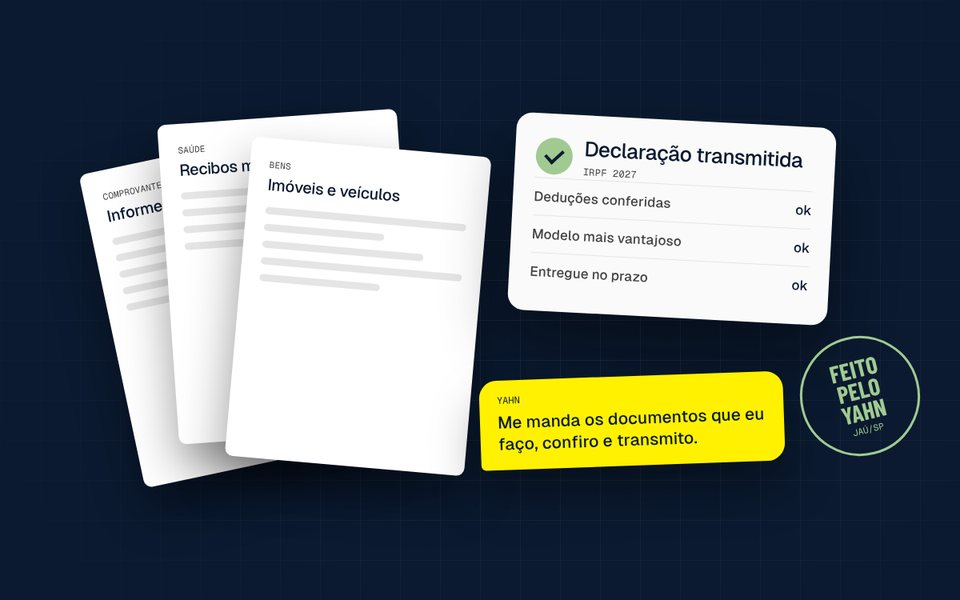
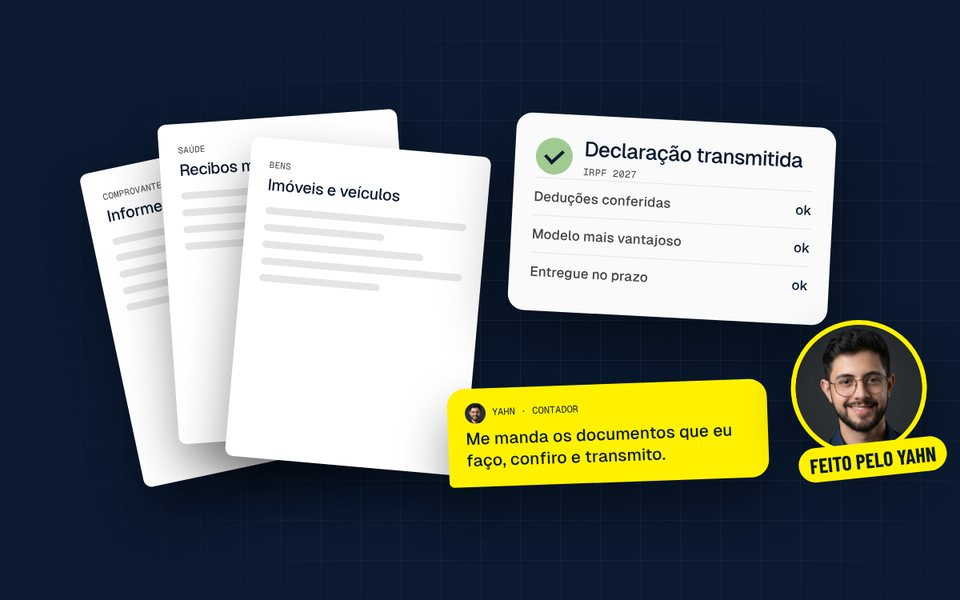
Adiciona a lista de espera do Guia IRPF 2027 e a foto do Yahn
O botão Quero ser avisado abre um formulário que salva nome, WhatsApp e e-mail no Supabase.
A foto entra no Sobre da plataforma, na página do Kit e na capa da declaração.

Claude-Session: https://claude.ai/code/session_01Fa3tAtS5QtGvEJKKqd2z4p

Changed region(s): [[0.4375, 0.51, 1.0, 0.84]]

diff --git a/index.html b/index.html
@@ -304,6 +304,9 @@ section{scroll-margin-top:84px}
 .arc{background:var(--canvas);color:var(--bone);border-radius:var(--r-arc) var(--r-arc) 0 0;padding:72px 0 40px}
 .about{display:grid;grid-template-columns:auto 1fr;gap:48px;align-items:center}
 .avatar{width:180px;height:180px;border-radius:var(--r-light);background:var(--act);color:var(--canvas);display:grid;place-items:center;font-family:var(--display);font-weight:700;font-size:80px}
+.avatar{position:relative;background:transparent!important;font-size:0!important}
+.avatar::before{content:"";position:absolute;inset:0;background:var(--act);border-radius:inherit;transform:rotate(6deg)}
+.avatar img{position:relative;display:block;width:100%;height:100%;object-fit:cover;border-radius:inherit;transform:rotate(-3deg);box-shadow:0 18px 40px rgba(0,0,0,.35)}
 .about h2{font-size:clamp(48px,6vw,84px);color:var(--chalk)}
 .about p{color:var(--stone);max-width:42em;margin:16px 0 10px}
 .about blockquote{font-family:var(--serif);font-style:italic;font-size:32px;line-height:1.25;letter-spacing:-.02em;color:var(--chalk);margin:20px 0 28px}
@@ -635,7 +638,7 @@ footer{background:var(--canvas);border-top:1px solid var(--stroke);padding:56px 
   <section id="sobre" class="light" style="padding-top:20px">
     <div class="arc">
       <div class="wrap about">
-        <div class="avatar" aria-hidden="true">YT</div>
+        <div class="avatar"><img src="img/yahn.jpg" alt="Yahn Torricelli Godoy" width="400" height="400" loading="lazy"></div>
         <div>
           <span class="mono" style="color:var(--muted)">Quem faz</span>
           <h2 class="disp">Yahn Torricelli Godoy</h2>
@@ -691,7 +694,7 @@ const PRODUCTS = [
   {tags:["guias","mei"], img:"img/mei-no-controle-gratis.jpg", fmt:"Ebook PDF", st:["free","Grátis"], name:"MEI no Controle · edição 2027", desc:"O básico do MEI em 8 páginas, já com o limite novo de 2027.", items:["Limite de R$ 110 mil e 2 funcionários","Calendário 2027 com as datas ajustadas","Checklist de 15 minutos por mês"], price:"Grátis", note:"acesso imediato", link:LINKS.guiaGratis, cta:"Quero o guia", cover:"mei", main:true},
   {tags:["guias","mei"], img:"img/kit-mei-no-controle.jpg", fmt:"Kit digital", st:["paid","Kiwify"], name:"Kit MEI no Controle", desc:"Guia completo, planilha de faturamento e checklist fiscal para manter o MEI em dia.", items:["Guia completo do MEI","Planilha: quanto falta para o limite","Checklist mensal e calendário fiscal","Bônus de acesso ao Portal MEI"], price:"R$ 47", note:"pagamento único", link:LINKS.kitMEI, cta:"Ver o kit", cover:"kit"},
   {tags:["guias","ir"], img:"img/checklist-irpf-2027.jpg", fmt:"Checklist PDF", st:["free","Grátis"], name:"Checklist IRPF 2027", desc:"Os documentos para separar antes de declarar, já com a isenção de até R$ 5 mil.", items:["Lista para marcar, em 2 páginas","Parte especial para quem é MEI","Simulador: quanto você economiza em 2027"], price:"Grátis", note:"acesso imediato", link:LINKS.irpf, cta:"Simular e baixar", cover:"ir", main:true},
-  {tags:["guias","ir"], img:"img/guia-irpf-2027.jpg", fmt:"Guia PDF", st:["soon","Fev/2027"], name:"Guia IRPF 2027", desc:"O passo a passo da declaração com os números oficiais da Receita.", items:["Deduções e como evitar a malha fina","Como o MEI declara o lucro","Atualizado com a instrução normativa de 2027"], price:"Em breve", note:"lista de espera", link:LINKS.instagram, cta:"Quero ser avisado", cover:"irg"},
+  {tags:["guias","ir"], img:"img/guia-irpf-2027.jpg", fmt:"Guia PDF", st:["soon","Fev/2027"], name:"Guia IRPF 2027", desc:"O passo a passo da declaração com os números oficiais da Receita.", items:["Deduções e como evitar a malha fina","Como o MEI declara o lucro","Atualizado com a instrução normativa de 2027"], price:"Em breve", note:"lista de espera", link:"#avisar", lead:"guia-irpf-2027", cta:"Quero ser avisado", cover:"irg"},
   {tags:["ir"], img:"img/declaracao-feita-pelo-yahn.jpg", fmt:"Serviço", st:["paid","Vagas limitadas"], name:"Declaração feita pelo Yahn", desc:"Você manda os documentos e eu faço, confiro e transmito a sua declaração.", items:["Ideal para MEI, aluguel e investimentos","Conferência de deduções","Entrega dentro do prazo"], price:"Sob consulta", note:"reserve sua vaga", link:LINKS.whatsIR, cta:"Reservar no WhatsApp", cover:"dec"},
 ];
 const COVERS = {
@@ -712,7 +715,7 @@ function render(f){
     const cta = p.link || p.st[0]!=="paid" ? p.cta : "Pedir o link";
     return `<article class="prod"><div class="cover cv-${p.cover}"><span class="fmt">${p.fmt}</span><span class="st ${p.st[0]}">${p.st[1]}</span>${p.img?`<img src="${p.img}" alt="${p.name}" width="960" height="600" loading="lazy">`:COVERS[p.cover]}</div>
       <div class="prod-b"><h4>${p.name}</h4><p>${p.desc}</p><ul>${p.items.map(i=>`<li>${i}</li>`).join("")}</ul>
-      <div class="prod-f"><div class="pr">${p.price}<small>${p.note}</small></div><a class="btn ${p.main?"btn-dark":"btn-line"}" href="${href}">${cta}</a></div></div></article>`;
+      <div class="prod-f"><div class="pr">${p.price}<small>${p.note}</small></div><a class="btn ${p.main?"btn-dark":"btn-line"}" href="${href}"${p.lead?` data-lead="${p.lead}"`:""}>${cta}</a></div></div></article>`;
   }).join("");
 }
 const fEl = document.getElementById("filters");
@@ -764,5 +767,90 @@ addEventListener("scroll", markTab, {passive:true}); markTab();
   if(!reduce) setInterval(()=>{ q.style.opacity = 0; setTimeout(()=>{ qi=(qi+1)%quotes.length; q.textContent = quotes[qi]; q.style.opacity = 1; }, 450); }, 4500);
 })();
 </script>
+<!-- lista de espera -->
+<style>
+.ld{border:0;padding:0;background:transparent;max-width:none;max-height:none;width:100%;height:100%;inset:0;margin:0}
+.ld::backdrop{background:rgba(5,12,24,.72);backdrop-filter:blur(6px)}
+.ld[open]{display:grid;place-items:center}
+.ld-c{position:relative;width:min(460px,calc(100% - 28px));background:#FAFAFA;color:#0B1A30;border-radius:24px;padding:30px 28px 26px;box-shadow:0 40px 90px rgba(0,0,0,.45);font-family:"Geist",system-ui,sans-serif}
+.ld-x{position:absolute;right:14px;top:14px;width:36px;height:36px;border-radius:50%;border:0;background:#EEEEEE;color:#0B1A30;font-size:20px;line-height:1;cursor:pointer}
+.ld-k{font-family:"Geist Mono",ui-monospace,monospace;font-size:12px;text-transform:uppercase;color:#444;letter-spacing:.02em}
+.ld-c h3{font-family:"Barlow Condensed",sans-serif;font-weight:700;text-transform:uppercase;font-size:44px;line-height:.92;letter-spacing:-.02em;margin:10px 40px 10px 0;color:#0B1A30}
+.ld-c>p{font-size:16px;color:#444;line-height:1.45;margin:0 0 18px}
+.ld-f{display:grid;gap:12px}
+.ld-f label{display:grid;gap:6px;font-size:14px;font-weight:500;color:#0B1A30}
+.ld-f label span small{font-weight:400;color:#6b7280}
+.ld-f input[type=text],.ld-f input[type=tel],.ld-f input[type=email]{font:400 17px "Geist",system-ui,sans-serif;color:#0B1A30;background:#fff;border:1px solid #cfd5de;border-radius:10px;padding:13px 14px;width:100%;box-sizing:border-box}
+.ld-f input:focus{outline:2px solid #0B1A30;outline-offset:1px;border-color:#0B1A30}
+.ld-f label.ld-ok{display:flex;gap:10px;align-items:flex-start;font-weight:400;font-size:13px;color:#444;line-height:1.4;cursor:pointer}
+.ld-ok input{margin-top:2px;width:18px;height:18px;accent-color:#0B1A30;flex:none}
+.ld-go{margin-top:4px;width:100%;font:500 17px "Geist",system-ui,sans-serif;background:#FFF100;color:#0B1A30;border:0;border-radius:3px;padding:16px;cursor:pointer}
+.ld-go:hover{background:#fff766}.ld-go:disabled{opacity:.6;cursor:wait}
+.ld-err{font-size:14px;color:#b42318;min-height:0;margin:0}
+.ld-done{display:none;text-align:left}
+.ld-done .ok{width:52px;height:52px;border-radius:50%;background:#A0CA92;display:grid;place-items:center;margin-bottom:14px}
+.ld-done .ok::after{content:"";width:20px;height:11px;border-left:4px solid #0B1A30;border-bottom:4px solid #0B1A30;transform:translateY(-3px) rotate(-45deg)}
+.ld.sent .ld-form{display:none}.ld.sent .ld-done{display:block}
+</style>
+<dialog class="ld" id="ld" aria-labelledby="ld-t">
+  <div class="ld-c">
+    <button class="ld-x" type="button" aria-label="Fechar">×</button>
+    <div class="ld-form">
+      <span class="ld-k" id="ld-k">Lista de espera</span>
+      <h3 id="ld-t">Guia IRPF 2027</h3>
+      <p id="ld-p">O guia sai quando a Receita publicar as regras de 2027, entre fevereiro e março. Deixe seu contato e eu te aviso no dia do lançamento.</p>
+      <form class="ld-f" novalidate>
+        <label><span>Nome</span><input type="text" name="nome" autocomplete="name" required maxlength="120"></label>
+        <label><span>WhatsApp</span><input type="tel" name="whatsapp" autocomplete="tel" inputmode="tel" placeholder="(14) 99999-9999" required maxlength="20"></label>
+        <label><span>E-mail <small>(opcional)</small></span><input type="email" name="email" autocomplete="email" maxlength="160"></label>
+        <label class="ld-ok"><input type="checkbox" name="ok" required>Aceito receber o aviso do lançamento e conteúdos do Yahn Contador. Posso pedir para sair quando quiser.</label>
+        <p class="ld-err" role="alert"></p>
+        <button class="ld-go" type="submit">Quero ser avisado</button>
+      </form>
+    </div>
+    <div class="ld-done" aria-live="polite">
+      <div class="ok"></div>
+      <span class="ld-k">Você está na lista</span>
+      <h3 id="ld-dn">Pronto!</h3>
+      <p style="font-size:16px;color:#444;line-height:1.45;margin:0 0 18px">Assim que o Guia IRPF 2027 sair, eu te mando uma mensagem no WhatsApp. Enquanto isso, separe seus documentos com o checklist grátis.</p>
+      <a class="ld-go" style="display:block;text-align:center;text-decoration:none;box-sizing:border-box" href="https://ytorricelli-lab.github.io/hub-yahn-contador/irpf/">Baixar o checklist grátis</a>
+    </div>
+  </div>
+</dialog>
+<script>
+(() => {
+  const SB = "https://vpmxaxnloaoqaxdmmoid.supabase.co", KEY = "sb_publishable_RhlWZVrxRY2WzayVLIiQFg_O92cxIBR", ORIGEM = "plataforma";
+  const d = document.getElementById("ld"); if (!d) return;
+  const f = d.querySelector("form"), err = d.querySelector(".ld-err"), go = d.querySelector(".ld-go[type=submit]");
+  let interesse = "guia-irpf-2027";
+  const open = (k) => { interesse = k || interesse; d.classList.remove("sent"); err.textContent = ""; d.showModal(); setTimeout(() => f.nome.focus(), 50); };
+  document.addEventListener("click", e => { const b = e.target.closest("[data-lead]"); if (!b) return; e.preventDefault(); open(b.dataset.lead); });
+  d.querySelector(".ld-x").onclick = () => d.close();
+  d.addEventListener("click", e => { if (e.target === d) d.close(); });
+  f.whatsapp.addEventListener("input", () => {
+    const n = f.whatsapp.value.replace(/\D/g, "").slice(0, 11);
+    f.whatsapp.value = n.length > 6 ? `(${n.slice(0,2)}) ${n.slice(2, n.length-4)}-${n.slice(-4)}` : n.length > 2 ? `(${n.slice(0,2)}) ${n.slice(2)}` : n;
+  });
+  f.addEventListener("submit", async e => {
+    e.preventDefault(); err.textContent = "";
+    const nome = f.nome.value.trim(), tel = f.whatsapp.value.replace(/\D/g, ""), email = f.email.value.trim();
+    if (nome.length < 2) { err.textContent = "Escreva seu nome."; f.nome.focus(); return; }
+    if (tel.length < 10) { err.textContent = "Confira o WhatsApp com DDD, por exemplo (14) 99999-9999."; f.whatsapp.focus(); return; }
+    if (email && !/^[^\s@]+@[^\s@]+\.[^\s@]+$/.test(email)) { err.textContent = "Confira o e-mail ou deixe em branco."; f.email.focus(); return; }
+    if (!f.ok.checked) { err.textContent = "Marque a caixa para eu poder te avisar."; return; }
+    go.disabled = true; go.textContent = "Salvando...";
+    try {
+      const r = await fetch(`${SB}/rest/v1/leads`, { method: "POST", headers: { apikey: KEY, "Content-Type": "application/json", Prefer: "return=minimal" },
+        body: JSON.stringify({ nome, whatsapp: tel, email: email || null, interesse, origem: ORIGEM }) });
+      if (!r.ok) throw new Error(r.status);
+      d.querySelector("#ld-dn").textContent = `Pronto, ${nome.split(" ")[0]}!`;
+      d.classList.add("sent"); f.reset();
+    } catch (_) {
+      err.innerHTML = 'Não consegui salvar agora. Tente de novo em instantes ou <a href="https://instagram.com/yahn.contador" style="color:inherit">me chame no Instagram</a>.';
+    } finally { go.disabled = false; go.textContent = "Quero ser avisado"; }
+  });
+})();
+</script>
+
 </body>
 </html>

diff --git a/irpf/index.html b/irpf/index.html
@@ -272,7 +272,7 @@ footer a{color:var(--stone)}
       <div class="head"><h2 class="disp"><span class="mono">Escolha como quer declarar</span>Do jeito que for melhor para você</h2><p>Comece pelo checklist. Depois, faça você mesmo com o guia ou deixe que eu faço.</p></div>
       <div class="three">
         <div class="prod hot"><span class="mono">Grátis · agora</span><h3>Checklist IRPF 2027</h3><p>Todos os documentos para separar antes da declaração, em duas páginas para marcar. Inclui a parte de quem é MEI.</p><a class="btn btn-act" href="Checklist-IRPF-2027.pdf">Baixar grátis</a></div>
-        <div class="prod"><span class="mono">Em breve · fev/2027</span><h3>Guia IRPF 2027</h3><p>Passo a passo da declaração com os números oficiais da Receita, deduções, como evitar a malha fina e como o MEI declara o lucro na pessoa física.</p><a class="btn btn-line" href="https://instagram.com/yahn.contador">Quero ser avisado</a></div>
+        <div class="prod"><span class="mono">Em breve · fev/2027</span><h3>Guia IRPF 2027</h3><p>Passo a passo da declaração com os números oficiais da Receita, deduções, como evitar a malha fina e como o MEI declara o lucro na pessoa física.</p><a class="btn btn-line" href="#avisar" data-lead="guia-irpf-2027">Quero ser avisado</a></div>
         <div class="prod"><span class="mono">Serviço · vagas limitadas</span><h3>Declaração feita pelo Yahn</h3><p>Você manda os documentos do checklist e eu faço, confiro e transmito a sua declaração. Ideal para quem tem MEI, aluguel ou investimentos.</p><a class="btn btn-line" href="https://wa.me/5514991696399?text=Ol%C3%A1%2C%20Yahn%21%20Vim%20pela%20p%C3%A1gina%20do%20IR%20e%20quero%20reservar%20minha%20vaga%20para%20a%20declara%C3%A7%C3%A3o%20do%20IR%202027.%0A%0ANome%3A%0ACidade%3A%0ATenho%20renda%20de%3A%20%28sal%C3%A1rio%2C%20MEI%2C%20aluguel%2C%20investimentos...%29">Reservar pelo WhatsApp</a></div>
       </div>
     </div>
@@ -308,5 +308,90 @@ function calc(){
 sal.addEventListener("input", () => { const d = sal.value.replace(/\D/g,""); sal.value = d ? Number(d).toLocaleString("pt-BR") : ""; calc(); });
 calc();
 </script>
+<!-- lista de espera -->
+<style>
+.ld{border:0;padding:0;background:transparent;max-width:none;max-height:none;width:100%;height:100%;inset:0;margin:0}
+.ld::backdrop{background:rgba(5,12,24,.72);backdrop-filter:blur(6px)}
+.ld[open]{display:grid;place-items:center}
+.ld-c{position:relative;width:min(460px,calc(100% - 28px));background:#FAFAFA;color:#0B1A30;border-radius:24px;padding:30px 28px 26px;box-shadow:0 40px 90px rgba(0,0,0,.45);font-family:"Geist",system-ui,sans-serif}
+.ld-x{position:absolute;right:14px;top:14px;width:36px;height:36px;border-radius:50%;border:0;background:#EEEEEE;color:#0B1A30;font-size:20px;line-height:1;cursor:pointer}
+.ld-k{font-family:"Geist Mono",ui-monospace,monospace;font-size:12px;text-transform:uppercase;color:#444;letter-spacing:.02em}
+.ld-c h3{font-family:"Barlow Condensed",sans-serif;font-weight:700;text-transform:uppercase;font-size:44px;line-height:.92;letter-spacing:-.02em;margin:10px 40px 10px 0;color:#0B1A30}
+.ld-c>p{font-size:16px;color:#444;line-height:1.45;margin:0 0 18px}
+.ld-f{display:grid;gap:12px}
+.ld-f label{display:grid;gap:6px;font-size:14px;font-weight:500;color:#0B1A30}
+.ld-f label span small{font-weight:400;color:#6b7280}
+.ld-f input[type=text],.ld-f input[type=tel],.ld-f input[type=email]{font:400 17px "Geist",system-ui,sans-serif;color:#0B1A30;background:#fff;border:1px solid #cfd5de;border-radius:10px;padding:13px 14px;width:100%;box-sizing:border-box}
+.ld-f input:focus{outline:2px solid #0B1A30;outline-offset:1px;border-color:#0B1A30}
+.ld-f label.ld-ok{display:flex;gap:10px;align-items:flex-start;font-weight:400;font-size:13px;color:#444;line-height:1.4;cursor:pointer}
+.ld-ok input{margin-top:2px;width:18px;height:18px;accent-color:#0B1A30;flex:none}
+.ld-go{margin-top:4px;width:100%;font:500 17px "Geist",system-ui,sans-serif;background:#FFF100;color:#0B1A30;border:0;border-radius:3px;padding:16px;cursor:pointer}
+.ld-go:hover{background:#fff766}.ld-go:disabled{opacity:.6;cursor:wait}
+.ld-err{font-size:14px;color:#b42318;min-height:0;margin:0}
+.ld-done{display:none;text-align:left}
+.ld-done .ok{width:52px;height:52px;border-radius:50%;background:#A0CA92;display:grid;place-items:center;margin-bottom:14px}
+.ld-done .ok::after{content:"";width:20px;height:11px;border-left:4px solid #0B1A30;border-bottom:4px solid #0B1A30;transform:translateY(-3px) rotate(-45deg)}
+.ld.sent .ld-form{display:none}.ld.sent .ld-done{display:block}
+</style>
+<dialog class="ld" id="ld" aria-labelledby="ld-t">
+  <div class="ld-c">
+    <button class="ld-x" type="button" aria-label="Fechar">×</button>
+    <div class="ld-form">
+      <span class="ld-k" id="ld-k">Lista de espera</span>
+      <h3 id="ld-t">Guia IRPF 2027</h3>
+      <p id="ld-p">O guia sai quando a Receita publicar as regras de 2027, entre fevereiro e março. Deixe seu contato e eu te aviso no dia do lançamento.</p>
+      <form class="ld-f" novalidate>
+        <label><span>Nome</span><input type="text" name="nome" autocomplete="name" required maxlength="120"></label>
+        <label><span>WhatsApp</span><input type="tel" name="whatsapp" autocomplete="tel" inputmode="tel" placeholder="(14) 99999-9999" required maxlength="20"></label>
+        <label><span>E-mail <small>(opcional)</small></span><input type="email" name="email" autocomplete="email" maxlength="160"></label>
+        <label class="ld-ok"><input type="checkbox" name="ok" required>Aceito receber o aviso do lançamento e conteúdos do Yahn Contador. Posso pedir para sair quando quiser.</label>
+        <p class="ld-err" role="alert"></p>
+        <button class="ld-go" type="submit">Quero ser avisado</button>
+      </form>
+    </div>
+    <div class="ld-done" aria-live="polite">
+      <div class="ok"></div>
+      <span class="ld-k">Você está na lista</span>
+      <h3 id="ld-dn">Pronto!</h3>
+      <p style="font-size:16px;color:#444;line-height:1.45;margin:0 0 18px">Assim que o Guia IRPF 2027 sair, eu te mando uma mensagem no WhatsApp. Enquanto isso, separe seus documentos com o checklist grátis.</p>
+      <a class="ld-go" style="display:block;text-align:center;text-decoration:none;box-sizing:border-box" href="Checklist-IRPF-2027.pdf">Baixar o checklist grátis</a>
+    </div>
+  </div>
+</dialog>
+<script>
+(() => {
+  const SB = "https://vpmxaxnloaoqaxdmmoid.supabase.co", KEY = "sb_publishable_RhlWZVrxRY2WzayVLIiQFg_O92cxIBR", ORIGEM = "pagina-irpf";
+  const d = document.getElementById("ld"); if (!d) return;
+  const f = d.querySelector("form"), err = d.querySelector(".ld-err"), go = d.querySelector(".ld-go[type=submit]");
+  let interesse = "guia-irpf-2027";
+  const open = (k) => { interesse = k || interesse; d.classList.remove("sent"); err.textContent = ""; d.showModal(); setTimeout(() => f.nome.focus(), 50); };
+  document.addEventListener("click", e => { const b = e.target.closest("[data-lead]"); if (!b) return; e.preventDefault(); open(b.dataset.lead); });
+  d.querySelector(".ld-x").onclick = () => d.close();
+  d.addEventListener("click", e => { if (e.target === d) d.close(); });
+  f.whatsapp.addEventListener("input", () => {
+    const n = f.whatsapp.value.replace(/\D/g, "").slice(0, 11);
+    f.whatsapp.value = n.length > 6 ? `(${n.slice(0,2)}) ${n.slice(2, n.length-4)}-${n.slice(-4)}` : n.length > 2 ? `(${n.slice(0,2)}) ${n.slice(2)}` : n;
+  });
+  f.addEventListener("submit", async e => {
+    e.preventDefault(); err.textContent = "";
+    const nome = f.nome.value.trim(), tel = f.whatsapp.value.replace(/\D/g, ""), email = f.email.value.trim();
+    if (nome.length < 2) { err.textContent = "Escreva seu nome."; f.nome.focus(); return; }
+    if (tel.length < 10) { err.textContent = "Confira o WhatsApp com DDD, por exemplo (14) 99999-9999."; f.whatsapp.focus(); return; }
+    if (email && !/^[^\s@]+@[^\s@]+\.[^\s@]+$/.test(email)) { err.textContent = "Confira o e-mail ou deixe em branco."; f.email.focus(); return; }
+    if (!f.ok.checked) { err.textContent = "Marque a caixa para eu poder te avisar."; return; }
+    go.disabled = true; go.textContent = "Salvando...";
+    try {
+      const r = await fetch(`${SB}/rest/v1/leads`, { method: "POST", headers: { apikey: KEY, "Content-Type": "application/json", Prefer: "return=minimal" },
+        body: JSON.stringify({ nome, whatsapp: tel, email: email || null, interesse, origem: ORIGEM }) });
+      if (!r.ok) throw new Error(r.status);
+      d.querySelector("#ld-dn").textContent = `Pronto, ${nome.split(" ")[0]}!`;
+      d.classList.add("sent"); f.reset();
+    } catch (_) {
+      err.innerHTML = 'Não consegui salvar agora. Tente de novo em instantes ou <a href="https://instagram.com/yahn.contador" style="color:inherit">me chame no Instagram</a>.';
+    } finally { go.disabled = false; go.textContent = "Quero ser avisado"; }
+  });
+})();
+</script>
+
 </body>
 </html>

diff --git a/kit/index.html b/kit/index.html
@@ -143,6 +143,9 @@ img{max-width:100%;display:block}
 /* autor */
 .author{display:grid;grid-template-columns:auto 1fr;gap:40px;align-items:center}
 .avatar{width:160px;height:160px;border-radius:24px;background:var(--act);color:var(--canvas);display:grid;place-items:center;font-family:var(--display);font-weight:700;font-size:72px}
+.avatar{position:relative;background:transparent!important;font-size:0!important}
+.avatar::before{content:"";position:absolute;inset:0;background:var(--act);border-radius:inherit;transform:rotate(6deg)}
+.avatar img{position:relative;display:block;width:100%;height:100%;object-fit:cover;border-radius:inherit;transform:rotate(-3deg);box-shadow:0 18px 40px rgba(0,0,0,.35)}
 .author h2{font-size:clamp(44px,5vw,72px);color:var(--chalk)}
 .author p{color:var(--stone);max-width:40em;margin-top:14px}
 .author blockquote{font-family:var(--serif);font-style:italic;font-size:28px;color:var(--chalk);margin-top:18px}
@@ -308,7 +311,7 @@ footer a{color:var(--stone)}
 
   <section class="band" id="autor">
     <div class="wrap author">
-      <div class="avatar" aria-hidden="true">YT</div>
+      <div class="avatar"><img src="img/yahn.jpg" alt="Yahn Torricelli Godoy" width="400" height="400" loading="lazy"></div>
       <div>
         <span class="mono" style="color:var(--muted)">Quem fez o kit</span>
         <h2 class="disp">Yahn Torricelli Godoy</h2>
